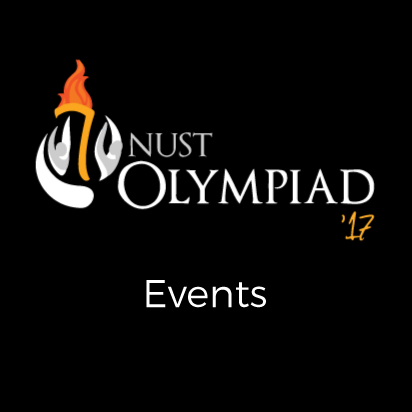
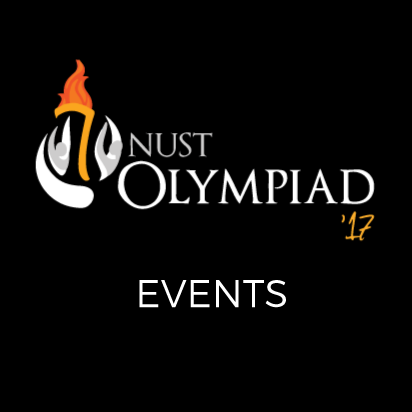
Made the final changes to homepage

Changed region(s): [[0.3204, 0.6699, 0.699, 0.7573]]

diff --git a/index.html b/index.html
@@ -199,13 +199,13 @@
 				<div class="td-sheet-icon">
 					<i class="ti-announcement"></i>
 				</div>
-				<div class="td-sheet-title">Events</div>
+				<div class="td-sheet-title">What Olympiad Offers</div>
 
 				<div class="container">
 					<div class="row">
 					<div class="col-md-12 text-center">
 							<div class="page-header">
-								<h1>Events</h1>
+								<h1>What Olympiad offers</h1>
 							</div>
 						</div>
 						<!-- <div class="col-md-4 text-center td-aboutus" data-animation="zoomIn" data-animation-delay="200" data-animation-instant=true >
@@ -310,7 +310,7 @@
 										<div class="class-back">
 											<!-- back content -->
 
-											<p class="class-center">Take a break from tiring, challenging days and get to experience Olympiad’s renowned social events.
+											<p class="class-center">Take a break and experience Olympiad’s renowned social events.
 												<br>
 												<a href="events/social-events.html" class="btn btn-default fadeInLeft">SEE ALL EVENTS</a>
 												<br><span class="ti-line-double"></span>
@@ -330,7 +330,7 @@
 										</div>
 										<div class="class-back">
 											<!-- back content -->
-											<p class="class-center"> Whether mental dexterity or a knack for creativity, NUST Olympiad events have you covered.
+											<p class="class-center">Whether mental dexterity or a knack for creativity, NUST Olympiad events have you covered.
 											<br>
 												<a href="#" class="btn btn-default fadeInLeft">SEE ALL EVENTS</a>
 												<br><span class="ti-line-double"></span>
@@ -350,7 +350,7 @@
 										</div>
 										<div class="class-back">
 											<!-- back content -->
-											<p class="class-center"> Over 30+ sports and gaming events to give you a chance to prove your mettle!
+											<p class="class-center">Olympiad '17 will provide accommodation to outstation participants on first come first serve basis.
 												<br>
 							<br><span class="ti-line-double"></span>
 											</p>
@@ -443,7 +443,7 @@
 										</div>
 										<div class="class-back">
 											<!-- back content -->
-											<p class="class-center"> This event promises to showcase the various cultures of Pakistan through stalls, traditional clothes and local delicacies.
+											<p class="class-center">Olympiad'17 will provide accomodation to outstation participants in the hostels of NUST.
 											<br>
 											<span class="ti-line-double"></span>
 											</p>
